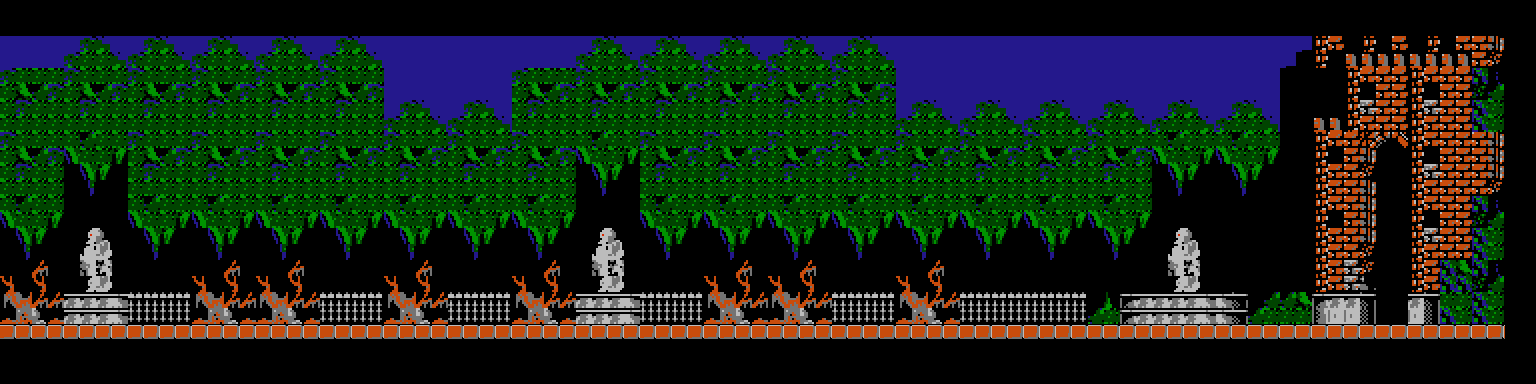
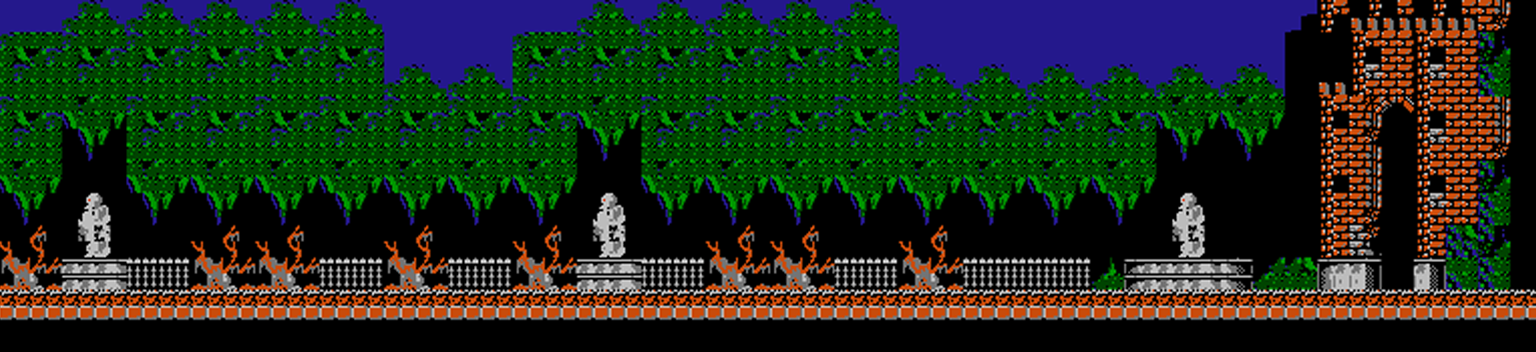
Load map successful

diff --git a/CastleVania/CastleVania/CTileMap.cpp b/CastleVania/CastleVania/CTileMap.cpp
@@ -10,6 +10,11 @@ CTileMap::CTileMap (int ID_MAP)
 	GetTile();
 }
 
+int CTileMap::GetMapWidth()
+{
+	mapWidth = num_col * TILE_SIZE;
+	return mapWidth;
+}
 
 wchar_t* CTileMap::ConvertToWideChar(char* p) // covert LWstring -> wchar_t*
 {
@@ -46,7 +51,7 @@ void CTileMap::GetTile() //lay ra tung tile -> gan id theo ID_MAP
 {
 	CTextures* textures = CTextures::GetInstance();
 	CSprites* sprites = CSprites::GetInstance();
-	LPDIRECT3DTEXTURE9 tex = textures->Get(9);	// lay id Texture (TileSet)
+	LPDIRECT3DTEXTURE9 tex = textures->Get(idTex);	// lay id Texture (TileSet)
 
 	int ID_Sprite, left_tile, top_tile, right_tile, bottom_tile;	
 
@@ -54,42 +59,37 @@ void CTileMap::GetTile() //lay ra tung tile -> gan id theo ID_MAP
 	for (int i = 0; i <= num_tiles; i++) // lay tung sprite cua texture
 	{
 		ID_Sprite = ID_MAP + i + 1;		// gan ID sprite theo ID_MAP
-		left_tile = i * 32;
+		left_tile = i * TILE_SIZE;
 		top_tile = 0;
-		right_tile = left_tile + 32;
-		bottom_tile = 32;
+		right_tile = left_tile + TILE_SIZE;
+		bottom_tile = TILE_SIZE;
 
 		sprites->Add(ID_Sprite, left_tile, top_tile, right_tile, bottom_tile, tex);
 	}
 }
+
 //
-//void CTileMap::GetFileMap(string path) // lay file map theo ID_MAP (->ID_SCENE) 
+//void CTileMap::LoadResource(LPCWSTR path)
 //{
-//	// Get link file map1,map2,map3
-//	ifstream inp;
-//	inp.open(path, ios::in);
+//	ifstream inp(L"map\\id_map.txt", ios::in);
 //	if (inp.fail())
 //	{
-//		DebugOut(L"[ERROR] Load file map failed! \n");
+//		DebugOut(L"[ERROR] Load resource for map is failed!");
 //		inp.close();
 //	}
-//
 //	while (!inp.eof())
 //	{
-//		int SCENE_ID;
-//		inp >> SCENE_ID >> ID_MAP;
-//
+//		inp >> ID_MAP >> path;
 //	}
-//	inp.close();
 //}
 
 void CTileMap::LoadMap() // DOC FILE MA TRAN CUA MAP THEO ID MAP
 {
 	CSprites* sprites = CSprites::GetInstance();
+	string path;
+	ifstream inp(L"map\\matrix.txt", ios::in);
 
 	// doc ma tran cua map
-	ifstream inp(L"map\\map1.txt", ios::in);
-
 	if (inp.fail())
 	{
 		DebugOut(L"[ERROR] Load map failed!");
@@ -97,35 +97,20 @@ void CTileMap::LoadMap() // DOC FILE MA TRAN CUA MAP THEO ID MAP
 		return;
 	}
 
-	//string line; // doc dong dau tien cua file txt
-	//getline(inp, line);
-	//stringstream ss(line);
 	inp >> num_tiles >> num_col >> num_row; // doc gia tri hang 1 (sl tile trong texture, col, row)
-
-	// Tao ma tran chua gia tri tile cho map 
-	//while (!inp.eof())
-	//{
-	//	stringstream ss(line); 
-	//	int num;
-
-	//	while (ss >> num) // doc sl gia tri tren 1 hang
-	//	{
-	//		for int 
-	//		int idTile = ID_MAP + num; // gan idTile theo IDMAP
-	//	}
-	//}
-	int a;
-	tileMap = new int* [num_row];
-
+	int n;
 	for (int i = 0; i < num_row; ++i)
 	{
-		tileMap[i] = new int[num_col];
+		vector<int>line;
+
 		for (int j = 0; j < num_col; ++j)
 		{
-			/*inp >> a;
-			tileMap[i][j] = a;*/
-			inp >> tileMap[i][j];
+			inp >> n;
+			line.push_back(n);
+
  		}
+		tileMap.push_back(line);
+
 	}
 	inp.close();
 
@@ -133,34 +118,29 @@ void CTileMap::LoadMap() // DOC FILE MA TRAN CUA MAP THEO ID MAP
 
 void CTileMap::DrawMap()
 {
+	//D3DXVECTOR3 camPosition;
 	CSprites* spritetile = CSprites::GetInstance();
 	CTextures* textures = CTextures::GetInstance();
-	LPDIRECT3DTEXTURE9 tex = textures->Get(9);	// lay id Texture (TileSet)
 
-	float x = 0, y = 0;
+	//col_begin = (int)camPosition.x / 32 - 1; // lay cot bat ve
+	//col_end = (int)col_begin + SCREEN_WIDTH / 32 + 1; //lay cot cuoi cua map
+	int x = 0, y =80;
 	for (int i = 0; i < num_row; i++)
 	{
-		for (int j = cell_begin; j <= num_col; j++) // ve tu tile bd den cuoi tile set (update theo vi tri camera)
+		x = 0; // vi tri dau cua map
+		for (int j = 0; j < num_col; j++) // ve tu tile bd den cuoi tile set (update theo vi tri camera)
 		{
+			/*int x = 32 * (j - col_begin) + camPosition.x - (int)camPosition.x % 32;
+			int y = 32 * i + 80;*/
 
-			
-			CSprites::GetInstance()->Get(ID_MAP + tileMap[i][j])->Draw(x,y, 255);
-			x = x + 32;
-
-			//CGame::GetInstance()->Draw(x, y, tex, left, top, right, bottom, alpha);
-
+			CSprites::GetInstance()->Get(ID_MAP + tileMap[i][j]+1)->Draw(x, y, 255); // lay id sprite de draw theo ma tran map			
+			x = x + TILE_SIZE;
 			// chua xu ly neu di den cuoi map
 		}
-		y = y + 32;
+		y = y + TILE_SIZE;
 
 	}
 }
-
-//void CTileMap::UpdateMap(D3DXVECTOR3 camPosition)
-//{
-//	cell_begin = (int)camPosition.x/ 32;
-//	cell_end = cell_begin + SCREEN_WIDTH / 32;
-//}
 
 
 

diff --git a/CastleVania/CastleVania/Map.h b/CastleVania/CastleVania/Map.h
@@ -1,0 +1,75 @@
+//#pragma once
+//
+//#include <Windows.h>
+//#include <vector>
+//#include <string>
+//#include <fstream>
+//#include <sstream>
+//#include <unordered_map>
+//
+//#include "Sprites.h"
+//#include "Debug.h"
+//#include "Textures.h"
+//#include "Game.h"
+//
+//#define SCREEN_WIDTH 512
+//
+//#define TILEMAP_TRANSPARENT_COLOR		D3DCOLOR_XRGB(255,0,255)
+//
+//#define MAP_1_WITDH			1536
+//#define MAP_1_HEIGHT		320
+//
+//#define TILE_WIDTH		32
+//#define TILE_HEIGHT		32
+//
+//#define MAP_MIN_COL			0
+//#define MAP_1_MAX_COL		47
+//#define MAP_1_MAX_ROW		11
+//#define MAP_1_MAX_SPRITE	79
+//
+//#define MAP_1			1
+//#define MAP_2			2
+//#define MAP_3			3
+//
+//
+//class CMap
+//{
+//	int** Tilemap;					// ma tran tile map
+//	int cell_begin;					// o bat dau ve
+//	int cell_end;					// o ket thuc ve
+//
+//	int nums_row;					// so hang map
+//	int nums_col;					// so cot map
+//
+//	int level;						// level cua map
+//
+//	//LPCWSTR filePath_tex;			// filepath texture 
+//	//LPCWSTR filePath_data;			// filepath data 
+//
+//	//int ID;							// ID tile map
+//
+//
+//public:
+//	CMap(int level);
+//	//void LoadMap();
+//	void Update();
+//	void Render();
+//
+//	int width;
+//	int height;
+//};
+//typedef CMap* LPTILEMAP;
+//
+///*
+//	Class manage map
+//*/
+//class CMaps
+//{
+//	static CMaps* __instance;	// co 1 map dc khoi tao
+//	vector<LPTILEMAP> maps;		//ds cac maps
+//
+//public:
+//	void LoadResources();		//load theo level cua map
+//	LPTILEMAP GetLevel(int level);
+//	static CMaps* GetInstance();
+//};

diff --git a/CastleVania/CastleVania/main.cpp b/CastleVania/CastleVania/main.cpp
@@ -44,7 +44,7 @@
 #define WINDOW_CLASS_NAME L"SampleWindow"
 #define MAIN_WINDOW_TITLE L"04 - Collision"
 
-#define BACKGROUND_COLOR D3DCOLOR_XRGB(255, 255, 255)
+#define BACKGROUND_COLOR D3DCOLOR_XRGB(0, 0, 0) // background black
 #define SCREEN_WIDTH 512
 #define SCREEN_HEIGHT 480
 
@@ -174,10 +174,7 @@ void LoadResources()
 
 	LPANIMATION ani;
 
-	/*===========READ FILE MAP========= */
 
-	//string tileSet;
-	CTileMaps::GetInstance()->LoadResource(1000);
 
 
 	/*===========READ TEXTURE FROM FILE TXT========= */
@@ -196,9 +193,14 @@ void LoadResources()
 		textures->Add(id,D3DCOLOR_XRGB(r, g, b), ConvertToWideChar((char*)link.c_str()));
 	}
 
+	LPDIRECT3DTEXTURE9 tex;
+	/*===========READ FILE MAP========= */
+
+	//string tileSet;
+	CTileMaps::GetInstance()->LoadResource(1000);
 
 	/*===========ADD SPRITE + ADD ANIMATION ========= */
-	LPDIRECT3DTEXTURE9 tex;
+
 	TiXmlDocument doc("Textures.xml");
 
 	if (!doc.LoadFile())
@@ -300,6 +302,8 @@ void LoadResources()
 		objects.push_back(brick);	
 	}
 	
+
+
 }
 
 /*
@@ -324,8 +328,9 @@ void Update(DWORD dt)
 	
 
 	// Update camera to follow mario
-	//int mapWidth = CTileMaps::GetInstance()->Get(MAP_1)->GetMapWidth(); // lay do dai map 
-	int mapWidth = 1536;
+	int mapWidth = CTileMaps::GetInstance()->GetMap(1000)->GetMapWidth(); // lay do dai map 
+	std::cout << mapWidth <<endl;
+	//int mapWidth = 1536;
 	float cx, cy;
 	CSimon::GetInstance()->GetPosition(cx, cy);
 

diff --git a/CastleVania/CastleVania/CTileMap.h b/CastleVania/CastleVania/CTileMap.h
@@ -14,35 +14,37 @@
 #define SCREEN_WIDTH 512
 #define SCREEN_HEIGHT 480
 #define MAX_SCENE 3
+#define TILE_SIZE	64
 
 class CTileMap
 {
-
+	int mapWidth; //chieu dai map
 	int ID_MAP = 1000;		// id map (map1,2,3)
 	int num_col;
 	int num_row;
 	int num_tiles; //so luong tile trong tileSet (sprite trong ~texture)
 	
-	int cell_begin; //tile bat dau ve
-	int cell_end;
-	//vector<vector<LPSPRITE>> tileMap;
+	int col_begin; //tile bat dau ve
+	int col_end ;
+	vector<vector<int>> tileMap;
 
 
-	int** tileMap; //  ma tran tiles 
+	//int** tileMap; //  ma tran tiles 
 
 public:
 	int idTex; 
 	CTileMap(){}
-	CTileMap(int ID_MAP = 1000);
+	CTileMap(int ID_MAP=1000);
+
+	int GetMapWidth(); // lay chieu dai cua map -> de set cam
 
 	wchar_t* ConvertToWideChar(char* p); // chuyen LWSTR -> char
-
 	void LoadTileSet(); // load texture TILEs (hinh)
 	void GetTile(); // get tung tile 
-	//void GetFileMap(string path); // lay file map theo ID_MAP 
+	//void LoadResource(LPCWSTR path); // load duong link map
+
 	void LoadMap();	//Load cac id vao ma tran map 
 	void DrawMap();
-	//void UpdateMap(D3DXVECTOR3 camPosition); //ve map theo camera
 
 };
 typedef CTileMap* LPTILEMAP;

diff --git a/CastleVania/CastleVania/Simon.h b/CastleVania/CastleVania/Simon.h
@@ -5,7 +5,7 @@
 #include "Candle.h"
 #include "Weapon.h"
 
-#define SIMON_WALKING_SPEED			0.3f //0.3f 
+#define SIMON_WALKING_SPEED			0.1f //0.3f 
 
 #define SIMON_JUMP_SPEED_Y			0.5f
 #define SIMON_JUMP_DEFLECT_SPEED	0.2f
